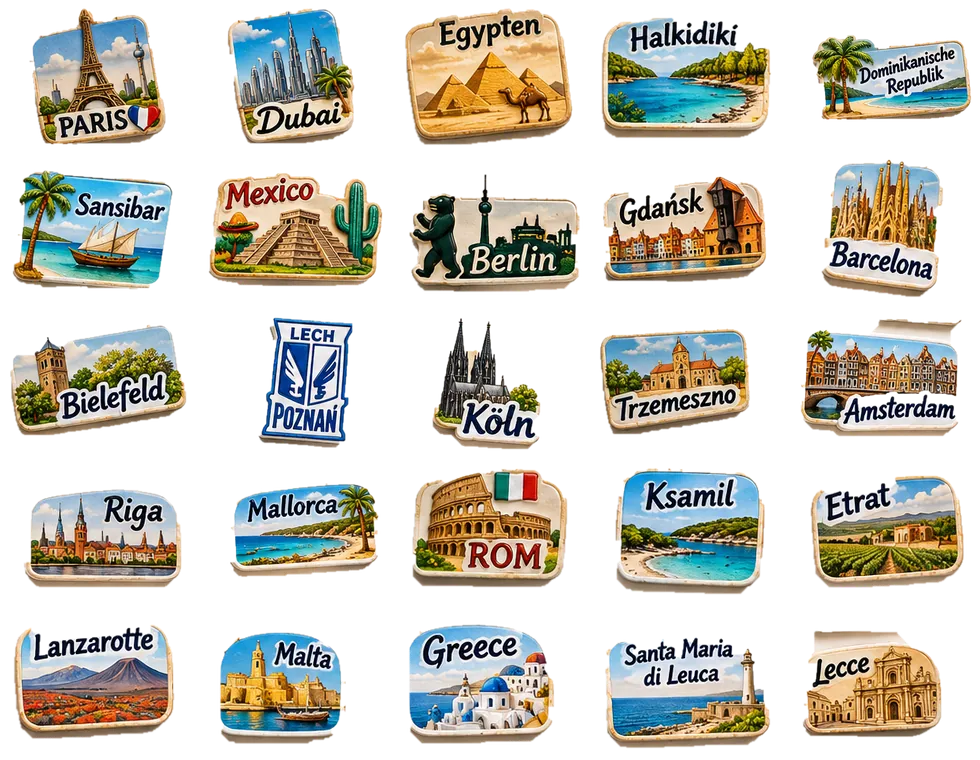
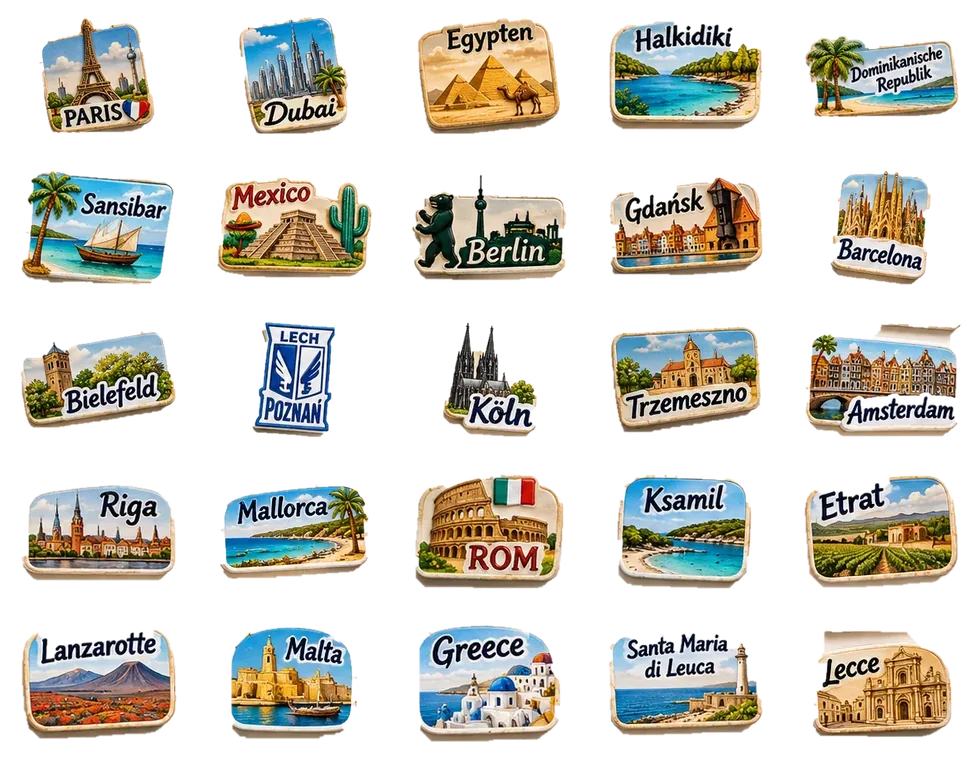
Reisemagnete: vollständige Ränder und harmonische Abstände (#15)
* Fix travel magnet atlas: protect all souvenir edges

* Polish travel magnets: more breathing room up top and lift bottom row

diff --git a/src/components/TravelMagnets.tsx b/src/components/TravelMagnets.tsx
@@ -26,9 +26,9 @@ const rotation = [-5, 4, -3, 5, -4, 3, -5, 4, -3, 5, -4, 3, -3, 5, -4, 3, 4, -3,
 const offset = [2, -2, 1, 3, -1, 2, -2, 1, 2, -1, 3, -1, 2, -2, 1, 3, -2, 1, -2, 2, -1, 2, 1, -2, 1];
 
 const layout: Record<Placement, string> = {
-  top: 'mx-auto mb-7 max-w-[950px] grid-cols-3 min-[420px]:grid-cols-4 sm:grid-cols-6 lg:grid-cols-8 border-y border-[#C7A35A]/10 py-5',
+  top: 'mx-auto mb-8 max-w-[980px] grid-cols-3 min-[420px]:grid-cols-4 sm:grid-cols-6 lg:grid-cols-8 border-y border-[#C7A35A]/10 py-7 sm:py-8',
   side: 'my-5 sm:my-7 grid-cols-3 gap-y-6',
-  bottom: 'mx-auto mt-9 max-w-[950px] grid-cols-3 min-[420px]:grid-cols-4 sm:grid-cols-6 lg:grid-cols-7 border-t border-[#C7A35A]/15 pt-7',
+  bottom: 'mx-auto mt-4 max-w-[950px] grid-cols-3 min-[420px]:grid-cols-4 sm:grid-cols-6 lg:grid-cols-7 border-t border-[#C7A35A]/15 pt-5',
 };
 
 /** The souvenirs are decoration, never covering copy or blocking any controls. */
@@ -36,7 +36,7 @@ export const TravelMagnets: React.FC<{ placement: Placement }> = ({ placement })
   return (
     <div
       aria-hidden="true"
-      className={`pointer-events-none grid w-full justify-items-center items-center gap-x-4 gap-y-6 sm:gap-x-5 sm:gap-y-7 ${layout[placement]}`}
+      className={`pointer-events-none grid w-full justify-items-center items-center gap-x-5 gap-y-7 sm:gap-x-6 sm:gap-y-8 ${layout[placement]}`}
     >
       {groups[placement].map((index) => {
         const col = index % 5;
